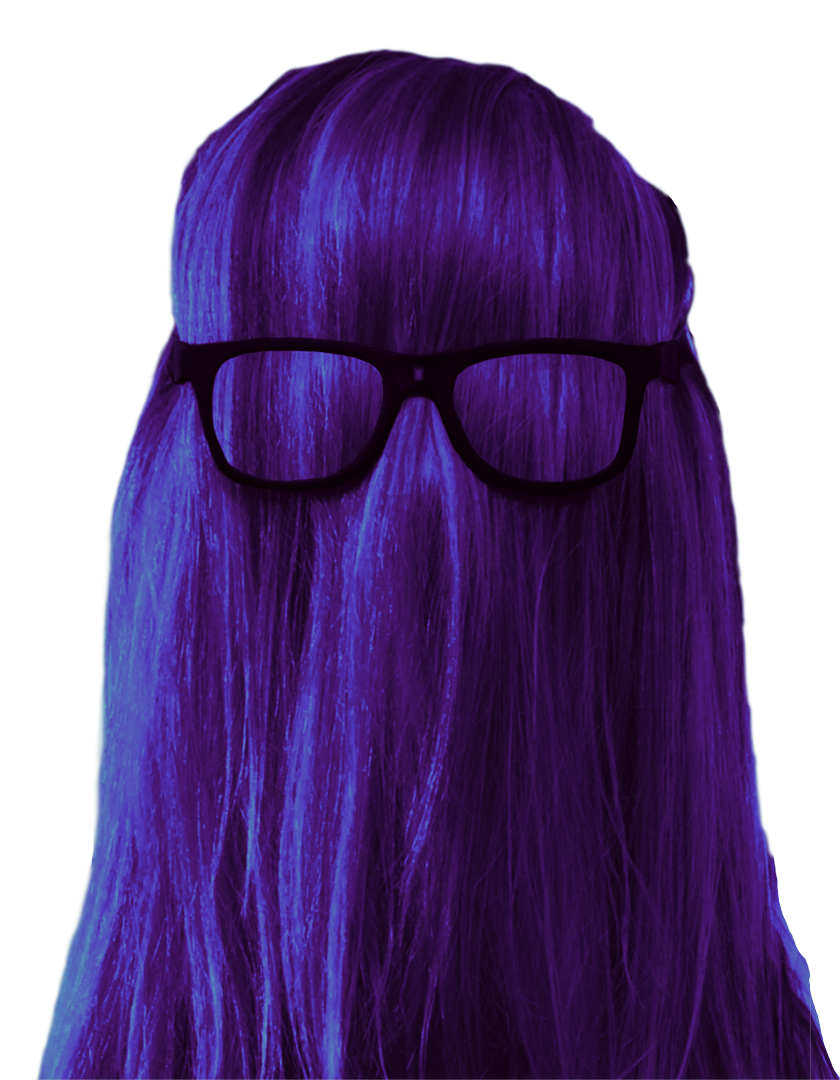
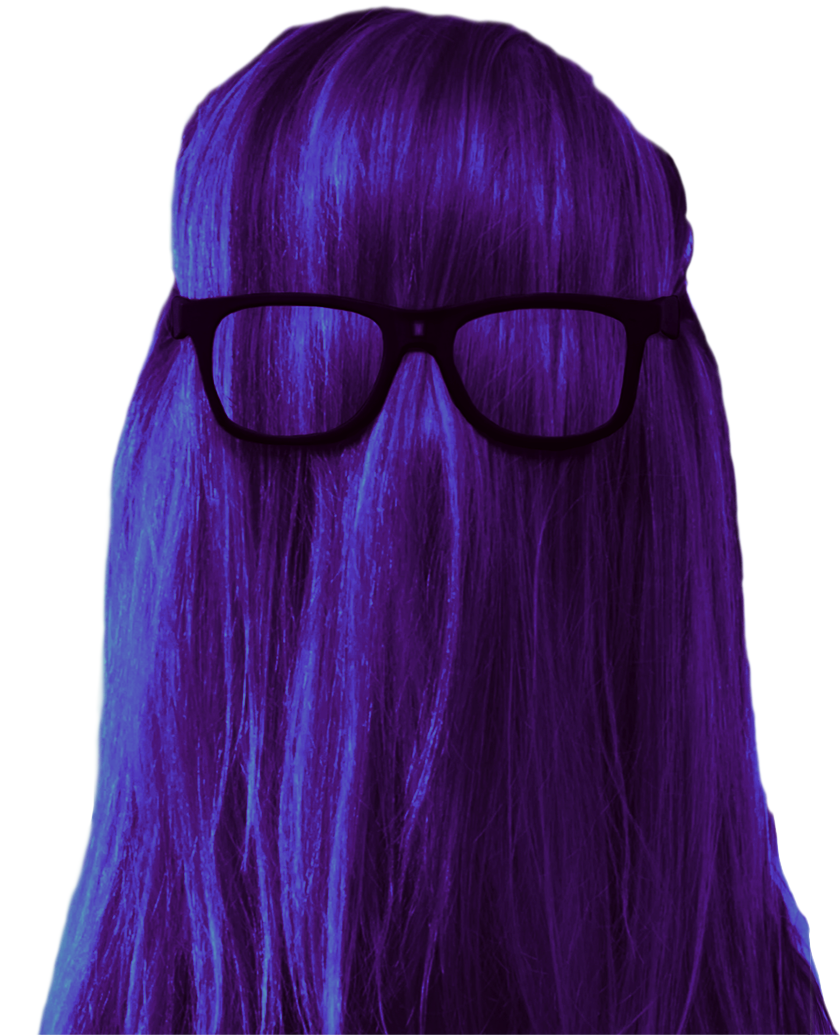
feature: about section

diff --git a/src/app/features/landing/sections/about-section/about-section.component.scss b/src/app/features/landing/sections/about-section/about-section.component.scss
@@ -1,6 +1,26 @@
 .screen-section {
+  .section-header {
+    display: flex;
+    position: absolute;
+    top: var(--sp-5);
+    z-index: 2;
+
+    h4 {
+      transform: rotate(-4deg);
+    }
+
+    img {
+      position: absolute;
+      top: var(--sp-5);
+      right: calc(-1 * var(--sp-3));
+      width: 60px;
+      opacity: .8;
+    }
+  }
+
   .visual {
     display: flex;
+    flex-direction: column;
     align-items: center;
     justify-content: center;
     position: absolute;
@@ -9,20 +29,20 @@
     width: 100%;
     height: 100%;
     transform: translateY(8%);
-    opacity: 0.88;
     pointer-events: none;
 
-    img {
+    .cut-out {
       display: block;
-      //width: min(100%, 540px);
       max-height: 100%;
+      opacity: 0.8;
       filter: drop-shadow(0 0 30px rgba(123, 44, 255, 0.35));
     }
   }
 
   .about-content {
     display: flex;
-    justify-content: space-between;
+    justify-content: center;
+    z-index: 2;
     width: 100%;
     height: 100dvh;
     padding-inline: var(--sidebar); /* prevent content from being hidden behind sidebar */
@@ -32,21 +52,64 @@
       display: flex;
       flex-direction: column;
       justify-content: space-between;
+      padding-block: 4%;
+
+      &.left-c {
+        transform: translateX(-224%);
+      }
+
+      &.right-c {
+        transform: translateX(224%);
+      }
     }
   }
 
   .prop {
     display: flex;
     flex-direction: column;
-    gap: .75rem;
+    align-items: center;
+    gap: var(--sp-2);
     position: absolute;
+    transform: translateY(60%);
     z-index: 2;
-    max-width: 60ch;
-    padding: 2rem;
-    background: rgba(20, 10, 45, 0.58);
-    border: 1px solid rgba(255, 255, 255, 0.08);
-    border-radius: 24px;
-    backdrop-filter: blur(12px);
+    //max-width: 60ch;
+    padding-bottom: var(--sp-1);
+    border-block: var(--border);
+    border-color: var(--body-text);
+    //backdrop-filter: blur(12px);
+    backdrop-filter: blur(4px);
+    text-shadow: var(--shadow-border-amethyst);
+
+    h3 {
+      font-size: 24px;
+
+      span {
+        font-size: 48px;
+        letter-spacing: var(--tr-tighter);
+        color: var(--accent-color);
+        text-shadow: var(--shadow-border-white);
+      }
+    }
+
+    p {
+      font-size: 20px;
+      letter-spacing: var(--tr-tiny);
+
+      &:first-of-type {
+        span {
+          font-size: 32px;
+          text-shadow: var(--shadow-border-fuchsia);
+        }
+      }
+
+      &:last-of-type {
+        span {
+          font-size: 28px;
+          color: var(--primary);
+          text-shadow: var(--shadow-border-white);
+        }
+      }
+    }
   }
 }
 

diff --git a/src/app/features/landing/sections/about-section/about-section.component.html b/src/app/features/landing/sections/about-section/about-section.component.html
@@ -1,27 +1,49 @@
 <section id="about" class="screen-section" data-section appSectionAnchor sectionId="about">
 
-  <div class="visual" appParallaxLayer [speed]="0.2" axis="y">
-    <img src="assets/img/icec.png" alt="icec" />
-  </div>
+  <figure class="visual" appParallaxLayer [speed]="0.2" axis="y">
+    <img class="cut-out" src="assets/img/icec.png" alt="icec" />
+  </figure>
+
+  <header class="section-header">
+    <h4>{{ t('about.kicker') }}</h4>
+    <img src="assets/img/icons/arrow.png" alt="arrow" />
+  </header>
 
   <aside class="prop">
-    <h4>{{ t('about.title') }}</h4>
+    <h3>
+      {{ t('about.title.segment-1') }}
+      <span>{{ t('about.title.segment-2') }}</span>
+      {{ t('about.title.segment-3') }}
+      <span>{{ t('about.title.segment-4') }}</span>
+    </h3>
+    <p class="h3">
+      {{ t('about.subtitle-1.segment-1') }}
+      <span>{{ t('about.subtitle-1.segment-2') }}</span>
+      {{ t('about.subtitle-1.segment-3') }}
+    </p>
+    <p class="h3">
+      <span>{{ t('about.subtitle-2.segment-1') }}</span>,
+      <span>{{ t('about.subtitle-2.segment-2') }}</span>
+      {{ t('about.subtitle-2.segment-3') }}
+      <span>{{ t('about.subtitle-2.segment-4') }}</span>
+    </p>
+    <!--
     <p>{{ t('about.intro') }}</p>
-    <p>{{ t('about.body') }}</p>
+    <p>{{ t('about.body') }}</p> -->
   </aside>
 
   <div class="about-content">
     <div class="left-c in-content">
-      <app-skill-item [skill]="skillsById['poulpe']" />
-      <app-skill-item [skill]="skillsById['xp']" />
+      <app-skill-item [skill]="skillsById['poulpe']"></app-skill-item>
+      <app-skill-item [skill]="skillsById['xp']"></app-skill-item>
     </div>
     <div class="right-c in-content">
-      <app-skill-item [skill]="skillsById['brain-l']" />
-      <app-skill-item [skill]="skillsById['brain-r']" />
+      <app-skill-item [skill]="skillsById['brain-l']"></app-skill-item>
+      <app-skill-item [skill]="skillsById['brain-r']"></app-skill-item>
     </div>
   </div>
 
   <div class="next">
-    <app-next-section-button currentSectionId="about" />
+    <app-next-section-button currentSectionId="about" labelKey="next.services" />
   </div>
 </section>
